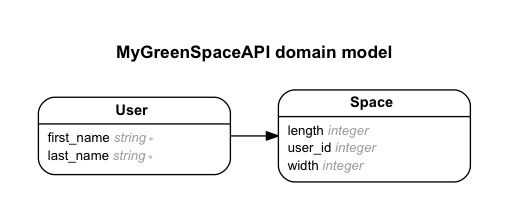
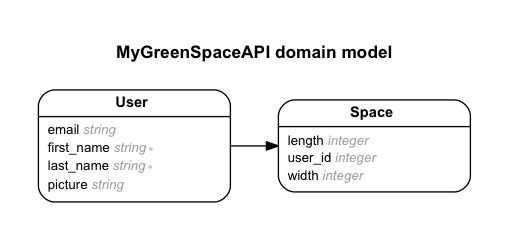
Add email and picture attributes to Users model

diff --git a/spec/requests/api/v1/users_spec.rb b/spec/requests/api/v1/users_spec.rb
@@ -11,6 +11,9 @@ describe 'GET /v1/users/:id' do
         'first_name'    => user.first_name,
         'last_name'     => user.last_name,
 
+        'email'         => user.email,
+        'picture'       => user.picture,
+
         'created_at'    => user.created_at.as_json,
         'updated_at'    => user.updated_at.as_json
       }

diff --git a/spec/requests/api/v1/spaces_spec.rb b/spec/requests/api/v1/spaces_spec.rb
@@ -25,10 +25,8 @@ describe 'GET /v1/users/:id/spaces' do
     space_1 = create(:space)
     space_2 = create(:space)
 
-
     get '/v1/users/:id/spaces', {}
 
-    binding.pry
     expect(response_json.first.last).to eq([
       {
         'id'            => space_1.id,

diff --git a/db/schema.rb b/db/schema.rb
@@ -29,6 +29,8 @@ ActiveRecord::Schema.define(version: 20141211181333) do
     t.datetime "updated_at", null: false
     t.string   "first_name", null: false
     t.string   "last_name",  null: false
+    t.string   "email"
+    t.string   "picture"
   end
 
 end

diff --git a/db/migrate/20141207001749_create_users.rb b/db/migrate/20141207001749_create_users.rb
@@ -5,6 +5,8 @@ class CreateUsers < ActiveRecord::Migration
 
       t.string :first_name,       null: false
       t.string :last_name,        null: false
+      t.string :email
+      t.string :picture
     end
   end
 end
